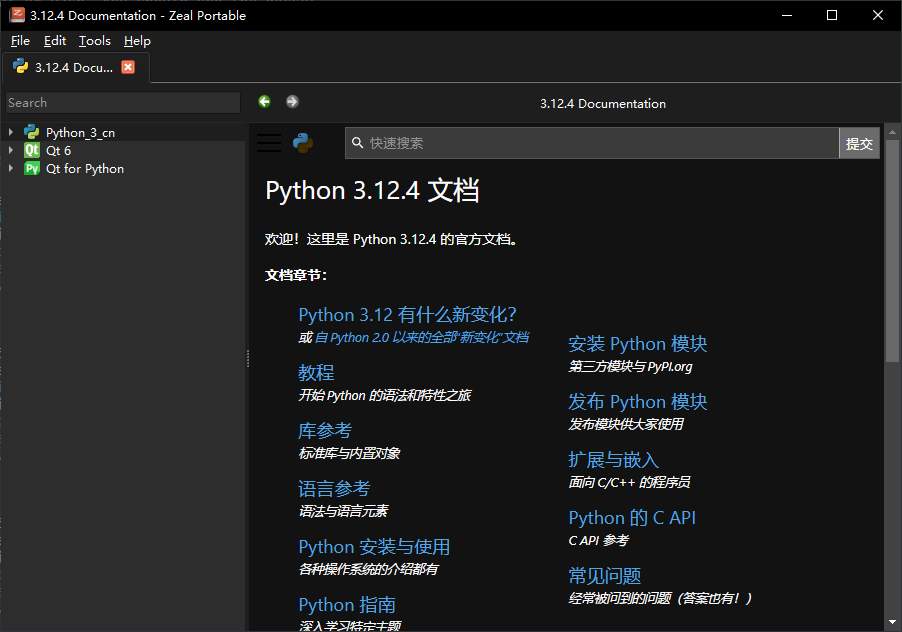
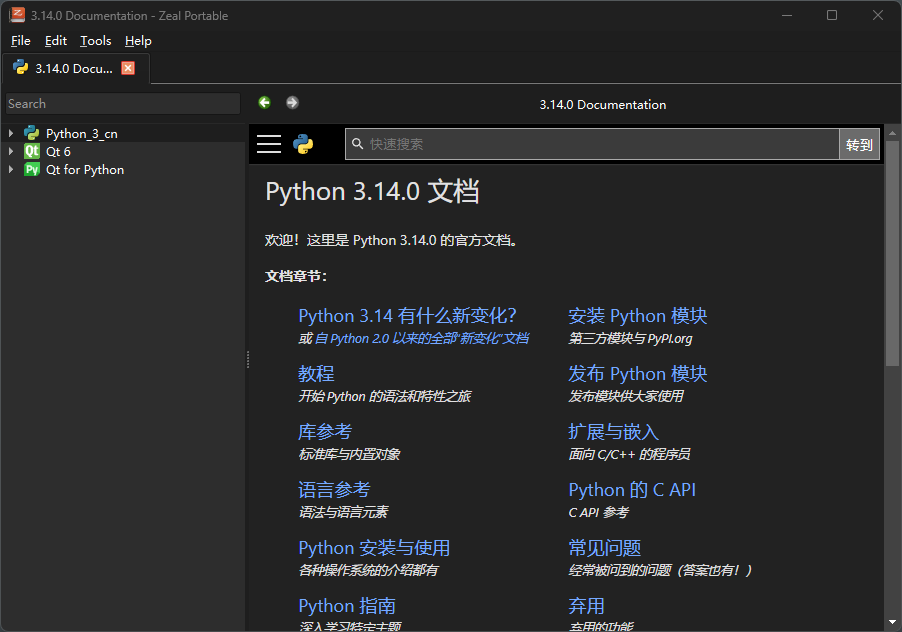
3.14.0

diff --git a/README.md b/README.md
@@ -1,6 +1,6 @@
-# Python3.12.4-docsets
+# Python3.14.0-docsets
 
-This is a Python 3.12.4 ZH-CN Version docset for Dash and Zeal.
+This is a Python 3.14.0 ZH-CN Version docset for Dash and Zeal.
 
 ## Download from Releases
 
@@ -8,7 +8,7 @@ Unzip the `Python_3_cn.docset.7z` file to `~/Library/Application Support/Zeal/Ze
 
 ## Build your own
 
-1. Download the `HTML` Python 3.12.4 documentation from https://docs.python.org/zh-cn/3/download.html and extract it to `doc` folder.
+1. Download the `HTML` Python 3.14.0 documentation from https://docs.python.org/zh-cn/3/download.html and extract it to `doc` folder.
 
 2. Create `venv` and install `doc2dash`. 
     ```powershell
